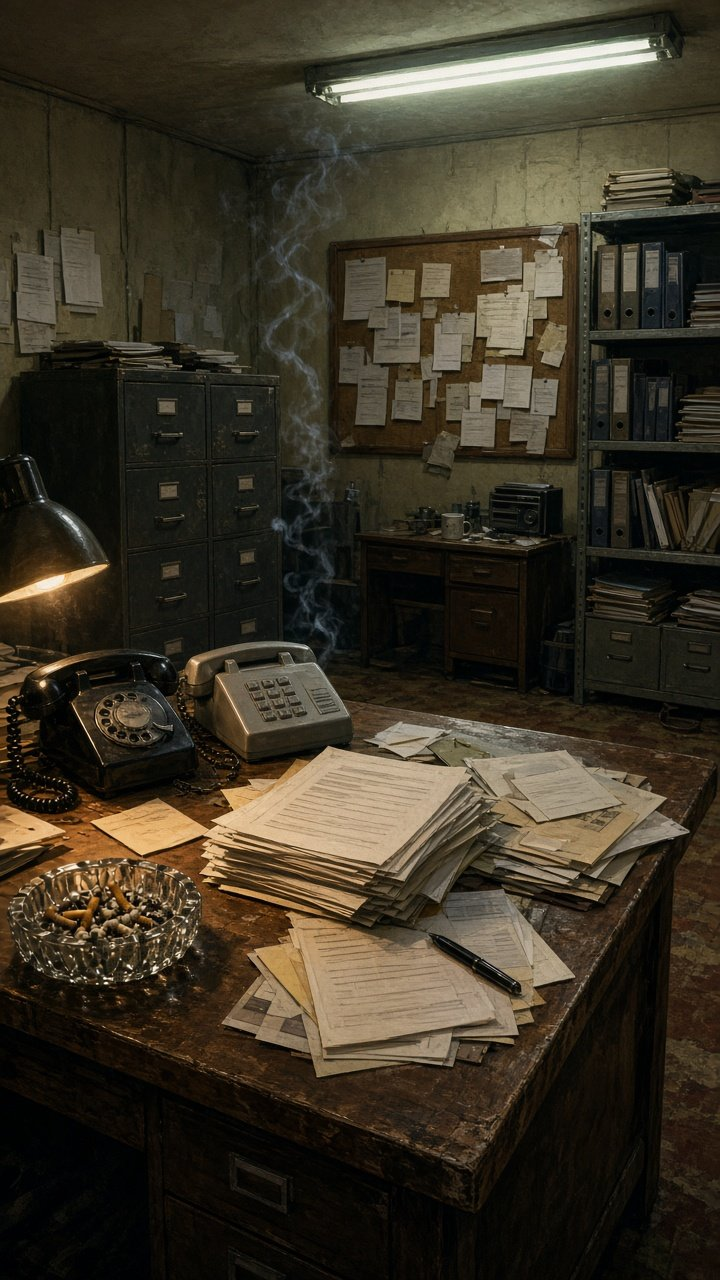
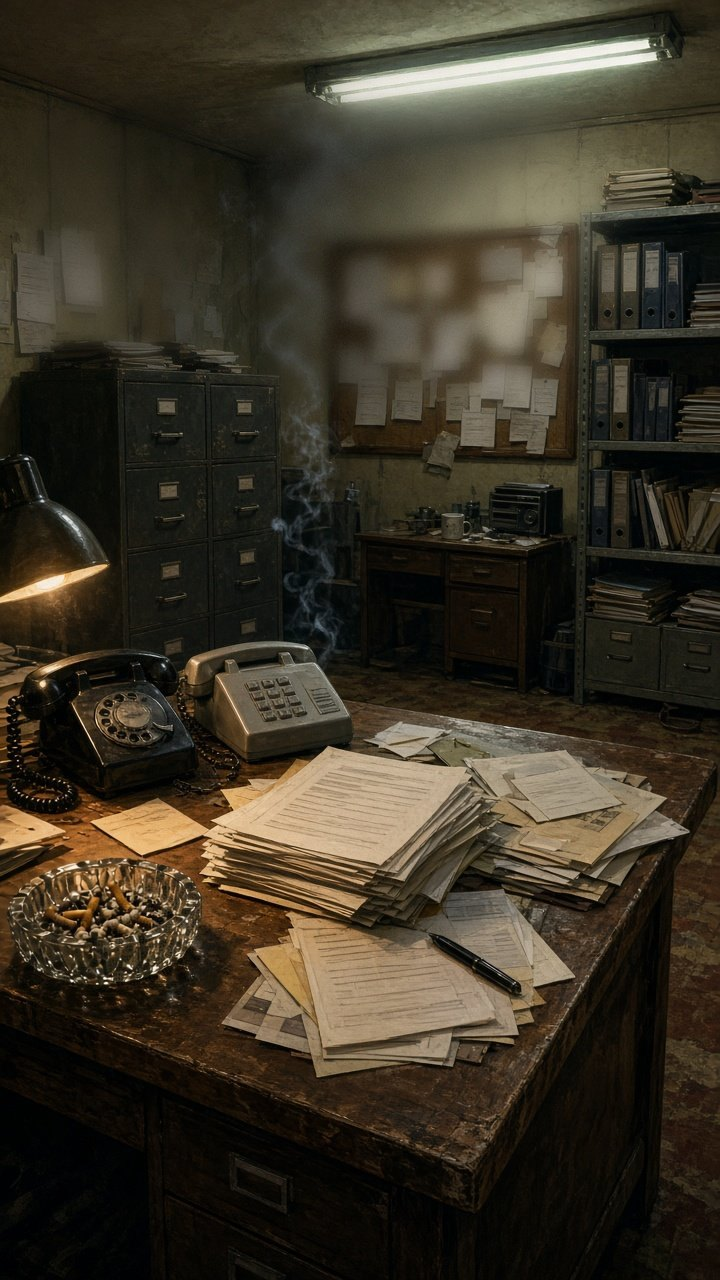
v19v: replace agency_ho loc bg with cork rewrite (Soft≠PASS)
Same path and ?v=19v. SHA256 43acc91f. Do not merge.

diff --git a/NOTES_V19V_SOFT_NITS.md b/NOTES_V19V_SOFT_NITS.md
@@ -15,6 +15,8 @@ Phone web preview tip. Soft nits only, after v19u browser PASS. Parent tip stays
 
[1 lines of base64/hex data omitted]
 
[1 lines of base64/hex data omitted]
+
 C1–C5 閘、硬鎖、看板分級未改。89–92 HOLD。
 
 Soft≠PASS. 出圖 HOLD. 唔 publish. 唔 merge.

diff --git a/assets/story/locs/MANIFEST.md b/assets/story/locs/MANIFEST.md
@@ -10,7 +10,7 @@
 | artId / key | file | size | dims | notes |
 |---|---|---:|---|---|
 | `bg_loc_cafe_cha` | `bg_loc_cafe_cha.jpg` | ~149 KB | 720×1280 | 金龍茶餐廳 interior；晚八〇港式茶餐廳卡座＋凍奶茶＋油煙／蒸氣；空白牌／空木框；無人臉；無商標／無水印／無烘焙中文 |
-| `bg_loc_agency_ho` | `bg_loc_agency_ho.jpg` | ~179 KB | 720×1280 | 何生事務所；煙灰缸／劇本紙堆／電話／檯燈＋螢光；香煙煙霧；無真藝人相／無商標；無人臉 |
+| `bg_loc_agency_ho` | `bg_loc_agency_ho.jpg` | ~170 KB | 720×1280 | 何生事務所；煙灰缸／劇本紙堆／電話／檯燈＋螢光；香煙煙霧；軟木板字輕改；無真藝人相／無商標；無人臉。SHA256 `43acc91f…` |
 
 ## LocId wiring (engine)
 
